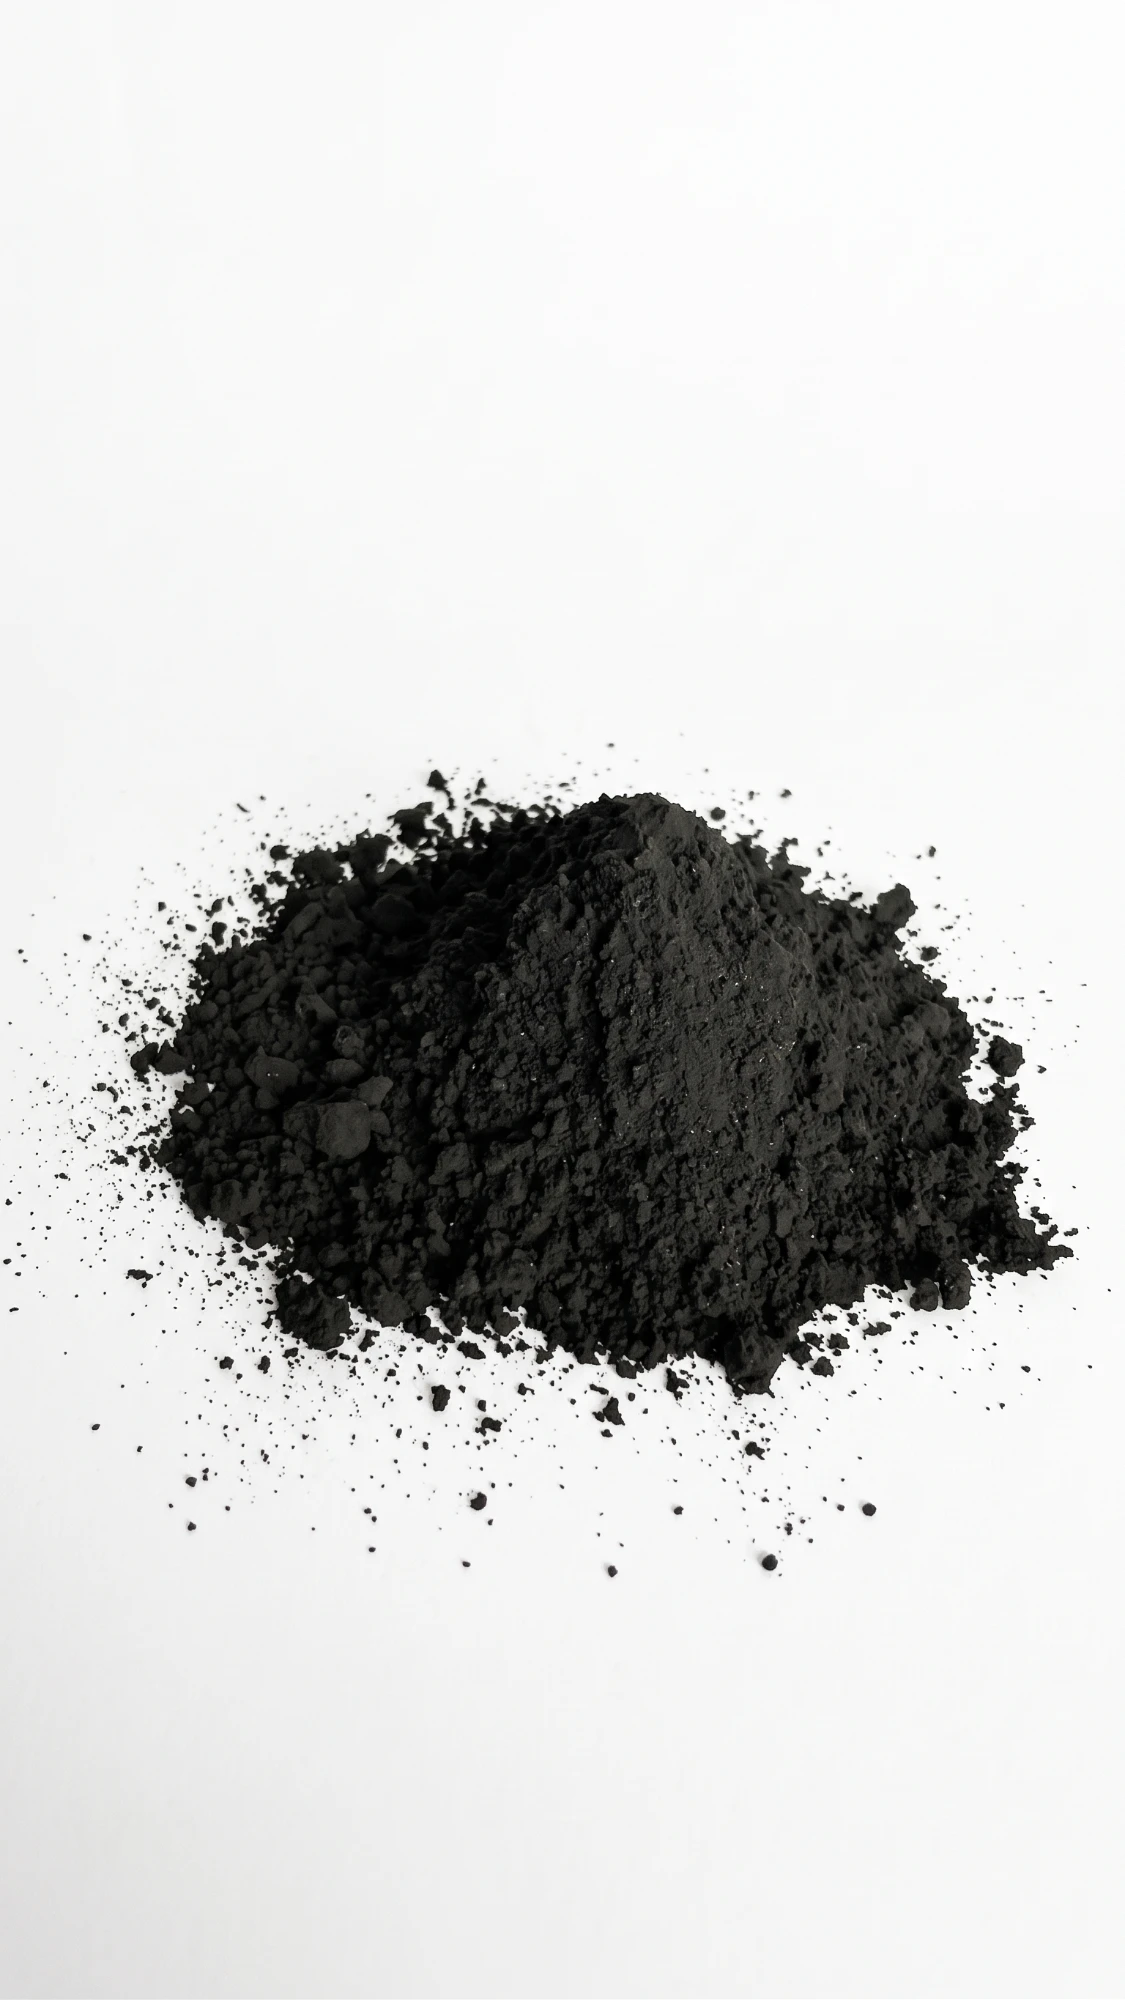
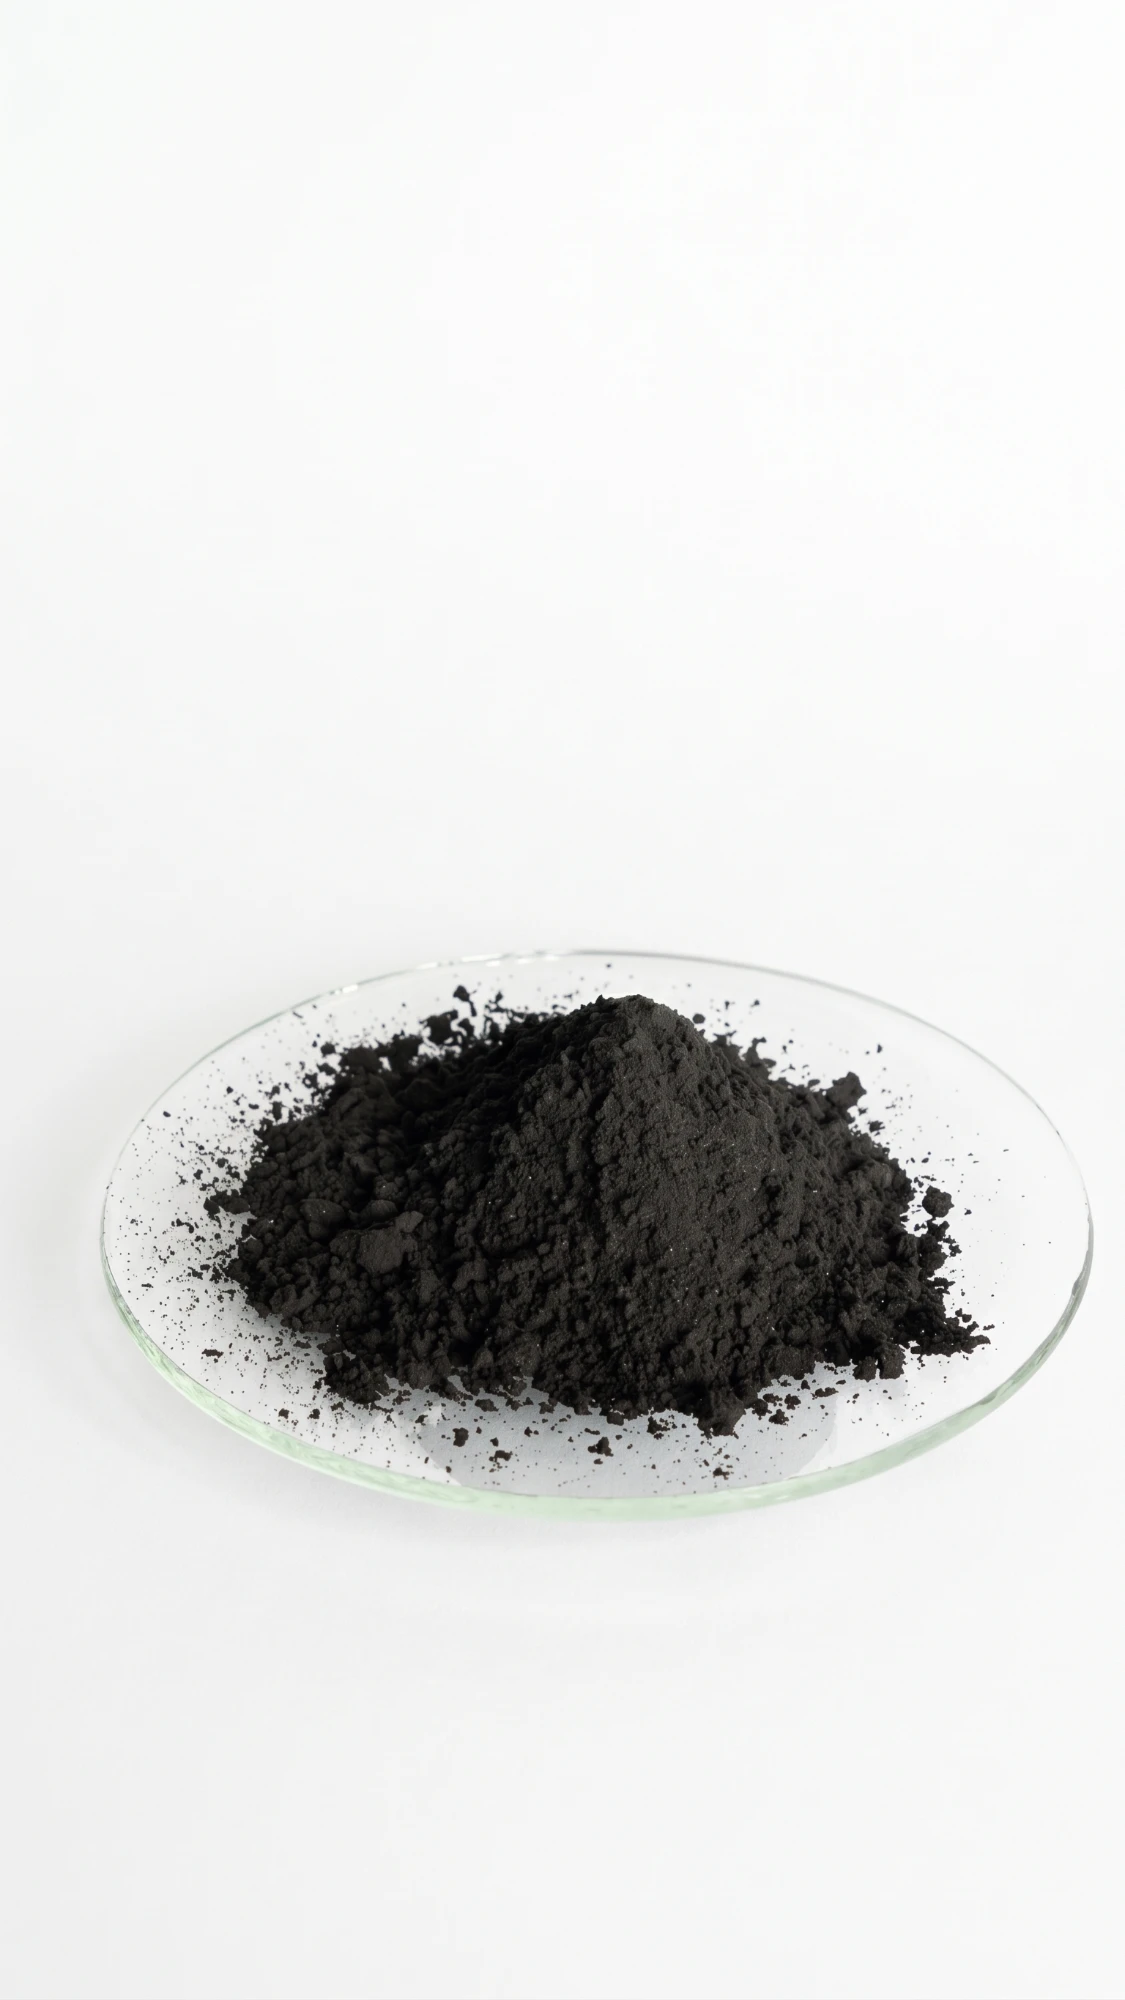
Update black mass photo and fix its crop position
New petri-dish photo for black mass; same lower-pile issue as
lithium/nickel, fixed with a custom object-position so the crop
doesn't cut its base off.

Changed region(s): [[0.0622, 0.372, 0.9956, 0.806]]

diff --git a/src/lib/products.ts b/src/lib/products.ts
@@ -55,6 +55,9 @@ export const RECYCLED_MATERIALS: RecycledMaterial[] = [
     name: "Black Mass",
     tag: "—",
     image: "/images/products/recovered/black-mass.webp",
+    // The pile sits lower in this photo (on a petri dish) than the other
+    // materials' shots — centring the crop (the default) cut its base off.
+    imagePosition: "center 73%",
     color: "linear-gradient(155deg, #2a2a28, #050505)",
     glow: "#2a2a28",
     textOn: "light",
